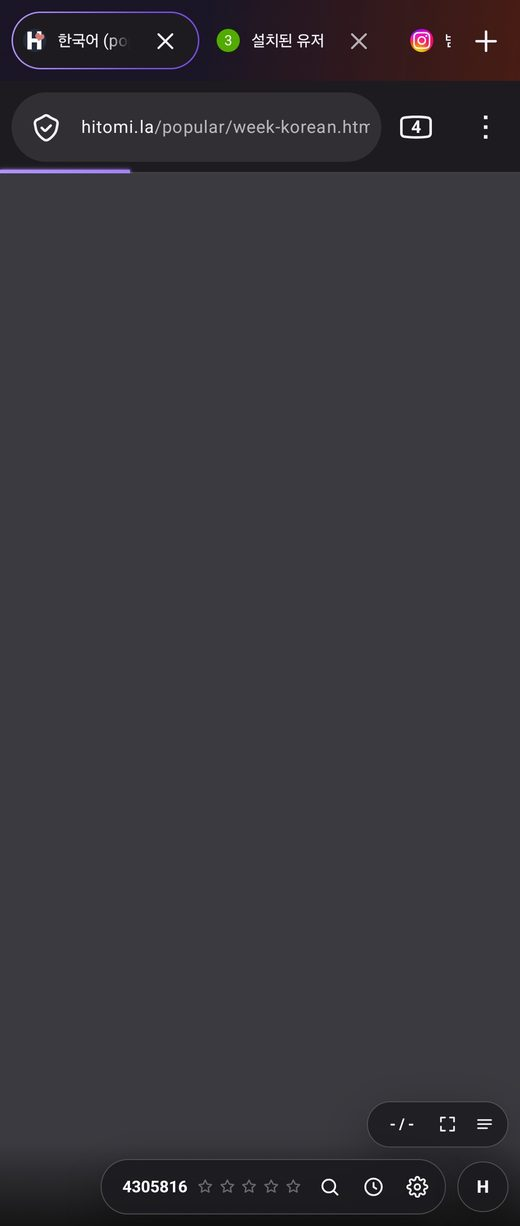
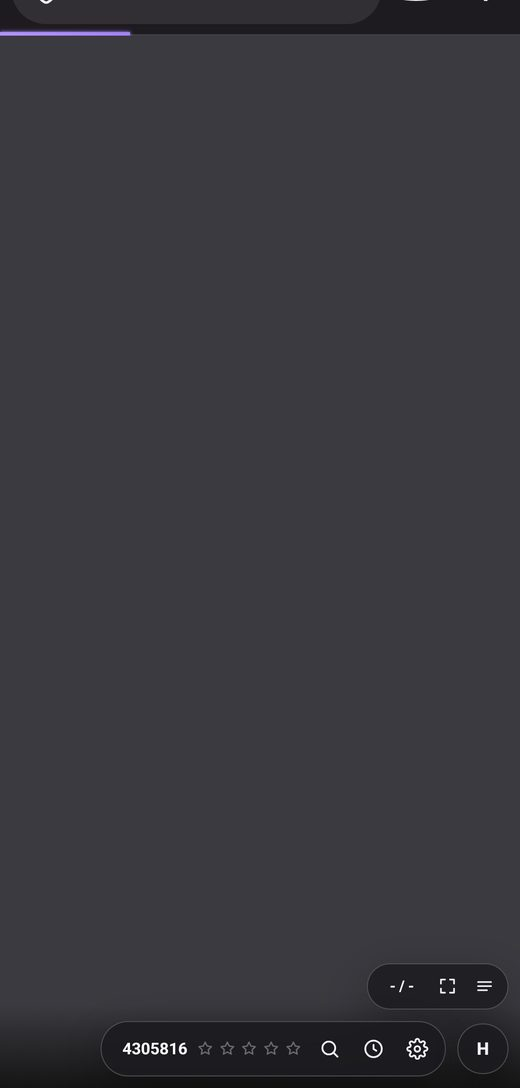
실사용 화면: 브라우저 주소창 영역 잘라내고 테두리 얇게
Claude-Session: https://claude.ai/code/session_016ygT1t5izYTteyvhaT623d

diff --git a/index.html b/index.html
@@ -66,7 +66,7 @@
   .shot { margin: 0; display: flex; flex-direction: column; align-items: center; gap: 10px; }
   .shot img {
     display: block; width: min(260px, 72%); max-width: 100%; height: auto;
-    border-radius: 26px; border: 6px solid var(--chip);
+    border-radius: 22px; border: 2px solid var(--chip);
     box-shadow: 0 18px 40px rgba(0, 0, 0, 0.18);
   }
   .shot figcaption { color: var(--sub); font-size: 13.5px; text-align: center; }
@@ -158,7 +158,7 @@
   </header>
 
   <figure class="shot">
-    <img src="shot.jpg" width="520" height="1226" alt="NeomGim을 설치한 파이어폭스 화면. 아래쪽에 품번, 별 5개, 검색·기록·설정 버튼과 H 버튼이 떠 있다.">
+    <img src="shot.jpg" width="520" height="1088" alt="NeomGim을 설치한 파이어폭스 화면. 아래쪽에 품번, 별 5개, 검색·기록·설정 버튼과 H 버튼이 떠 있다.">
     <figcaption>실제 휴대폰 화면. 아래쪽에 떠 있는 버튼들이 NeomGim이에요.</figcaption>
   </figure>
 
